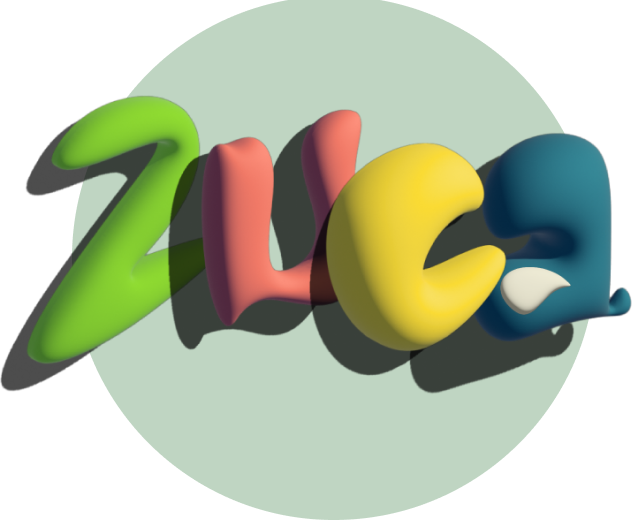
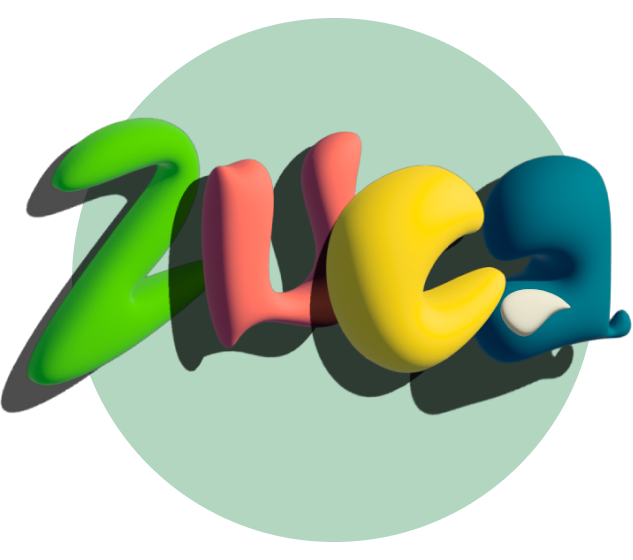
Fix front page image sizes

diff --git a/style.css b/style.css
@@ -16,7 +16,7 @@ body, html{
 }
 
 p {
-  font-size: 32px;
+  font-size: 24px;
   color: #243e36;
 }
 
@@ -36,7 +36,7 @@ nav .logo {
   font-size: 30px;
   display:none;
   
-  @media only screen and (min-width: 900px) {
+  @media only screen and (min-width: 1200px) {
     display:block;
   }
 }
@@ -49,7 +49,7 @@ nav ul {
   width: 100%;
   padding: 0px;
 
-  @media only screen and (min-width: 900px) {
+  @media only screen and (min-width: 1200px) {
     width: 70%;
   }
 }
@@ -60,7 +60,7 @@ nav li {
   display: flex;
   justify-content: center;
 
-  @media only screen and (min-width: 900px) {
+  @media only screen and (min-width: 1200px) {
     font-size: 30px;
   }
 }
@@ -82,9 +82,18 @@ a {
 .introduction {
   flex-direction: column-reverse;
 
-  @media only screen and (min-width: 900px) {
+  @media only screen and (min-width: 1200px) {
     flex-direction: row;
   }
+}
+
+.introduction h2 {
+  font-weight: 500;
+}
+
+.text-wrapper h2 {
+  color: #243e36;
+  font-size: 2rem; /* medida utilizada ao inves de px pois tive problemas ao testar em outros computadores, e esta foi a versao que melhor se adaptou */
 }
 
 .text-wrapper {
@@ -104,10 +113,10 @@ a {
 }
 
 .img-wrapper img {
-  width: 500px;
+  width: 350px;
 
   @media only screen and (min-width: 1440px) {
-    width: 750px;
+    width: 500px;
   }
 }
 
@@ -138,18 +147,13 @@ a {
   margin: 0; /* margem excluida para melhoramento estetico e melhor disposicao do texto acima e abaixo */
 }
 
-.text-wrapper h2 {
-  color: #243e36;
-  font-size: 2rem; /* medida utilizada ao inves de px pois tive problemas ao testar em outros computadores, e esta foi a versao que melhor se adaptou */
-}
-
 /*pagina about*/
 .about {
   display: flex;
   padding-left: 10%;
   padding-right: 10%;
 
-  @media only screen and (max-width: 900px) {
+  @media only screen and (max-width: 1200px) {
     flex-direction: column;
   }
 }
@@ -163,6 +167,11 @@ a {
 .contact h1 {
   text-align: center;
   padding-bottom: 50px;
+}
+
+.contact h2 {
+  color: #7ca982;
+  font-size: 60px; /* medida utilizada ao inves de px pois tive problemas ao testar em outros computadores, e esta foi a versao que melhor se adaptou */
 }
 
 .contact iframe {
@@ -180,7 +189,12 @@ a {
 }
 
 .section {
-  height: 90vh;
+  padding-bottom: 10vh; 
+
+  @media only screen and (min-width: 1200px) {
+    height: 90vh;
+    padding-bottom: 0px;
+  }
 }
 
 img {
@@ -276,7 +290,7 @@ img {
 .work .card-1 {
     width: 400px;
     height: 650px;
-    margin-top: 300px;
+    top: 300px;
     z-index: 3;
 }
 
@@ -284,7 +298,7 @@ img {
     height: 450px;
     width: 750px;
     z-index: 1;
-    margin-left: 50px;
+    left: 50px;
 }
 
 .work .card-3 {
@@ -299,23 +313,23 @@ img {
     height: 500px;
     width: 500px;
     z-index: 2;
-    margin-left: 100px;
-    margin-top: 800px;
+    left: 100px;
+    top: 800px;
 }
 
 .work .card-5 {
     height: 650px;
     width: 650px;
     z-index: 1;
-    margin-top: 1000px;
-    margin-left: 500px;
+    top: 1000px;
+    left: 500px;
 }
 
 .work .card-6 {
     height: 500px;
     width: 750px;
     z-index: 0;
-    margin-top: 1600px;
+    top: 1600px;
     right: 0;
 }
 
@@ -323,7 +337,7 @@ img {
     height: 750px;
     width: 450px;
     z-index: 0;
-    margin-top: 1400px;
+    top: 1400px;
     left: 10px;
 }
 
@@ -332,8 +346,9 @@ img {
     width: 420px;
     z-index: 0;
     right: 30px;
-    margin-top: 120px;
+    top: 120px;
 }
+
 
 
 @keyframes brightnessAnimation {
@@ -366,7 +381,7 @@ img {
 /*pagina project individual*/
 
 .project-body {
-    @media only screen and (min-width: 901px) {
+    @media only screen and (min-width: 1201px) {
       overflow: hidden;
     }
 }
@@ -377,7 +392,7 @@ img {
     height: 100vh;
     display: flex;
 
-    @media only screen and (max-width: 900px) {
+    @media only screen and (max-width: 1200px) {
       flex-direction: column;
     }
 }
@@ -411,7 +426,7 @@ img {
     font-size: 3rem;
     font-weight: 500;
 
-    @media only screen and (min-width: 900px) {
+    @media only screen and (min-width: 1200px) {
       font-size: 5rem;
     }
 }

diff --git a/index.html b/index.html
@@ -40,7 +40,7 @@
         <h1>About me</h1>
         <p>I am a multimedia designer with a passion for 3D and UI/UX, dedicated to solving problems creatively. I have
           a keen interest in new technologies, especially VR/AR, and love designing for children, including creating
-          illustrations and writing stories.</p>
+          3D models and writing stories.</p>
       </div>
     </div>
     <div class="section work" id="work"> <!--classes foram usadas para setorizar os conteudos das paginas -->
@@ -105,7 +105,7 @@
     </div>
     <div class="section contact" id="contact"> <!--classes foram usadas para setorizar os conteudos das paginas -->
       <div class="text-wrapper">
-        <h1>Find me</h1>
+        <h2>Find me</h2>
         <!--localizacao retirada do Google maps -->
         <iframe
           src="https://www.google.com/maps/embed?pb=!1m18!1m12!1m3!1d3082.955585412492!2d-9.141510124225196!3d39.4025108716206!2m3!1f0!2f0!3f0!3m2!1i1024!2i768!4f13.1!3m3!1m2!1s0xd18b3a4441b2e53%3A0x196879cf9e932b4d!2sSILOS%20Contentor%20Criativo!5e0!3m2!1spt-PT!2spt!4v1712611978298!5m2!1spt-PT!2spt"
@@ -113,11 +113,11 @@
           referrerpolicy="no-referrer-when-downgrade"></iframe>
       </div>
       <div class="text-wrapper">
-        <h1>Contact me</h1>
+        <h2>Contact me</h2>
         <!--Redireciona o cliente para o email ao clicar -->
-        <h2><a href="mailto:euraquelpanda@gmail.com">euraquelpanda@gmail.com</a></h2>
-        <h2><a href="https://www.instagram.com/zuca_designer/" target="_blank"><i class="fa-brands fa-instagram"></i>
-            zuca_designer</a></h2>
+        <p><a href="mailto:euraquelpanda@gmail.com">euraquelpanda@gmail.com</a></p>
+        <p><a href="https://www.instagram.com/zuca_designer/" target="_blank"><i class="fa-brands fa-instagram"></i>
+            zuca_designer</a></p>
       </div>
     </div>
     <script src="./index.js"></script>
